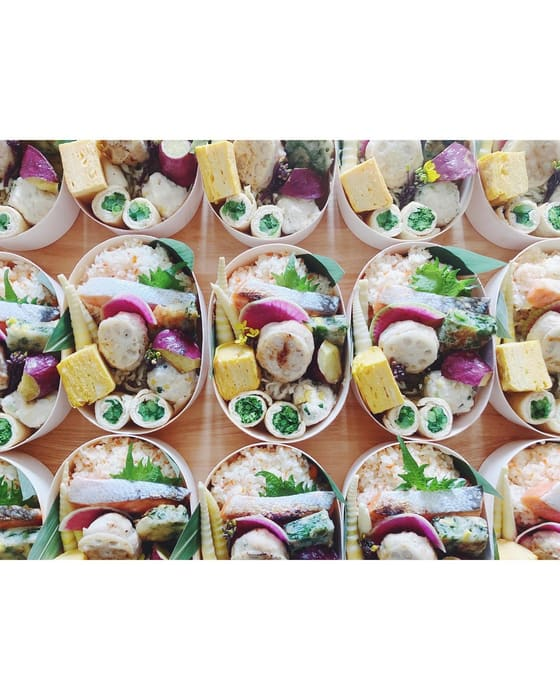
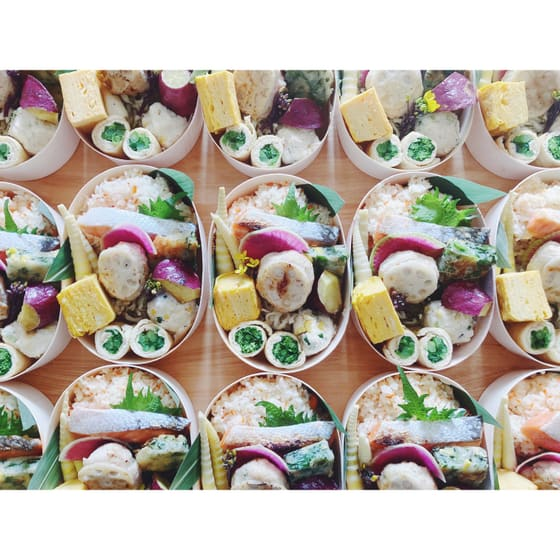
feat: 紹介文9件と店舗画像3枚を追加（紹介文35件・画像34枚）
紹介文・展開商品を追加:
9 あ / 16 かっちゃんさっちゃん / 18 Tomori / 26 ゥさん食堂 /
27 86coffee / 29 neaz eyewear / 30 うさぎ村 / 31 ippo / 32 RuFL

店舗画像を追加: 9 / 16 / 26

店舗ご本人の表記に合わせて店名を変更:
- 「あ 〜折染ワークショップ〜」→「あ」
- 「かっちゃん さっちゃん」→「かっちゃんさっちゃん」
- 「一般社団法人 RuFL」→「RuFL」

16 かっちゃんさっちゃん に Instagram を追加（これまで未登録）。

残りは 20 ヒマラヤ（紹介文・画像・Instagram すべて）と
28 おやこ似顔絵（画像）のみ。

Claude-Session: https://claude.ai/code/session_01UjFhsqrywCfpy14FVUrrUw

diff --git a/events/asobo/visit/index.html b/events/asobo/visit/index.html
@@ -1503,8 +1503,14 @@ const SHOPS = [
   },
   {
     no: 9, pins: [{ n: 9, x: 32.93, y: 49.39 }],
-    name: "あ 〜折染ワークショップ〜", cat: "ワークショップ",
-    insta: ["someworks.a"], img: "shops/09.jpg"
+    name: "あ", kana: "あ", cat: "ワークショップ",
+    insta: ["someworks.a"], img: "shops/09.jpg",
+    desc: "染め紙を体験するワークショップです。\n紙をじゃばらに折り、色水を思うままに浸ける。簡単な作業なので、小さなお子様から大人まで、夢中になって楽しめます。\n染め紙には正解も失敗もなし！ 偶然生まれるキレイ✨や、予測できない変化✨を感じて、豊かな感性が育ちます🌳\n色とりどりのワクワクを体験しにいらしてください🌈",
+    items: [
+      { name: "染め紙竹うちわ作り（竹うちわ1柄につき染め紙2枚）", price: "¥1,000" },
+      { name: "折染め体験（1枚）", price: "¥200" }
+    ],
+    note: "＊染め紙竹うちわ作りは、2枚目以降 800円／1柄"
   },
   {
     no: 10, pins: [{ n: 10, x: 28.47, y: 54.4 }],
@@ -1574,8 +1580,14 @@ const SHOPS = [
   },
   {
     no: 16, pins: [{ n: 16, x: 46.92, y: 52.7 }],
-    name: "かっちゃん さっちゃん", cat: "物販",
-    insta: [], img: "shops/16.jpg"
+    name: "かっちゃんさっちゃん", kana: "かっちゃんさっちゃん", cat: "物販",
+    insta: ["kazikisan0987654321"], img: "shops/16.jpg",
+    desc: "大人も子供も大好き、肉汁たっぷりソーセージ！！\n大人向けなカフェオレや、子供大好きコーンスープを提供しています！\nASOBO!!で沢山わくわくを発見した後は、かっちゃんさっちゃんに食べに来てください！ まってます💫",
+    items: [
+      { name: "ソーセージ", price: "¥500" },
+      { name: "カフェオレ", price: "¥300" },
+      { name: "コーンスープ", price: "¥400" }
+    ]
   },
   {
     no: 17, pins: [{ n: 17, x: 42.58, y: 57.72 }],
@@ -1590,8 +1602,15 @@ const SHOPS = [
   },
   {
     no: 18, pins: [{ n: 18, x: 46.94, y: 57.7 }],
-    name: "Tomori", cat: "物販",
-    insta: ["tomori_curry"], img: "shops/18.jpg"
+    name: "Tomori", kana: "ともり", cat: "物販",
+    insta: ["tomori_curry"], img: "shops/18.jpg",
+    desc: "旬の野菜にこだわって作る創作スパイスカレー。\nオーガニック野菜を使用し、グルテンフリーのカレーを提供します。\n辛味はあとがけで調整できるスタイル。辛いものが苦手な方でも安心してお召し上がりいただけます。",
+    items: [
+      { name: "あいがけプレート（かぼちゃのキーマカレー＋豆カレー＋副菜3種付き）", price: "¥1,100" },
+      { name: "たまごのアチャール", price: "¥100" },
+      { name: "お子さまカレー", price: "¥500" },
+      { name: "ジンジャーエール", price: "¥400" }
+    ]
   },
   {
     no: 19, pins: [{ n: 19, x: 39.52, y: 65.03 }],
@@ -1666,13 +1685,32 @@ const SHOPS = [
   },
   {
     no: 26, pins: [{ n: 26, x: 61.59, y: 41.67 }],
-    name: "ゥさん食堂", cat: "物販",
-    insta: ["usansyokudo"], img: "shops/26.jpg"
+    name: "ゥさん食堂", kana: "うーさんしょくどう", cat: "物販",
+    insta: ["usansyokudo"], img: "shops/26.jpg",
+    desc: "西三河を中心に活動しているゥさん食堂です。\n季節や旬のお野菜を中心にたっぷり使ったお弁当を作っています。7〜8種のお惣菜を少しずつ、彩りや味わいを変えながら五感で楽しめるお弁当をお届けいたします。\nなかなか岐阜方面に出店することがないので、ぜひこの機会に手に取っていただけると嬉しいです！",
+    items: [
+      { name: "季節のお惣菜弁当", price: "¥1,300" }
+    ]
   },
   {
     no: 27, pins: [{ n: 27, x: 63.23, y: 54.47 }],
     name: "86coffee", cat: "キッチンカー",
-    insta: ["86coffee__"], img: "shops/27.jpg"
+    insta: ["86coffee__"], img: "shops/27.jpg",
+    desc: "「日常に溶け込むように、美味しいコーヒーを」をコンセプトに日々運営しております。\n私の好きな「深煎り」のコーヒーを淹れるとき、お湯の温度が86℃がちょうどいいのと、そのような細部までこだわりをもつという意味を屋号に込めています。\nドーナツは国産小麦100%使用。油っこくなく、素材にこだわった、どの年代でも食べやすい素朴な味です。",
+    items: [
+      { name: "コーヒー", price: "¥600" },
+      { name: "カフェラテ", price: "¥650" },
+      { name: "ショコララテ", price: "¥700" },
+      { name: "キャラメルラテ", price: "¥700" },
+      { name: "はちみつラテ", price: "¥700" },
+      { name: "コーヒーフロート", price: "¥700" },
+      { name: "ウインナーコーヒー", price: "¥700" },
+      { name: "チョコミルク", price: "¥500" },
+      { name: "キャラメルミルク", price: "¥500" },
+      { name: "クリームソーダ", price: "¥600" },
+      { name: "ジュース", price: "¥400" },
+      { name: "国産小麦のドーナツ", price: "¥330" }
+    ]
   },
   {
     no: 28, pins: [{ n: 28, x: 66.98, y: 51.89 }],
@@ -1686,23 +1724,50 @@ const SHOPS = [
   },
   {
     no: 29, pins: [{ n: 29, x: 70.96, y: 49.56 }],
-    name: "neaz eyewear（メガネ工房AZ）", cat: "物販",
-    insta: ["meganekoubouaz"], img: "shops/29.jpg"
+    name: "neaz eyewear（メガネ工房AZ）", kana: "にーずあいうぇあ（めがねこうぼうえーぜっと）", cat: "物販",
+    insta: ["meganekoubouaz"], img: "shops/29.jpg",
+    desc: "愛知県刈谷市で父の代から25年、町の眼鏡屋として営んできました。\n眼鏡の価値観ってどうなんでしょう？ 当店は価値を高めたいのではなく、必要な方の元へ行く。\n「needs（ニーズ）」が溢れてる色々な場所へ。「near（近く）」待ってるだけの入りにくさを感じる店ではなく、自ら近くに。メガネ工房AZから派生して、マルシェ専用の屋号として生まれたのが「neaz（ニーズ）eyewear」です。\nお顔の真ん中、1番人格を表す目の周りを彩る唯一のアイテム『眼鏡』を使って、その方だけの眼鏡を提案します！",
+    items: [
+      { name: "眼鏡", price: "¥19,800" },
+      { name: "めがね拭き", price: "¥1,100" },
+      { name: "眼鏡型マグカップ（オリジナル）", price: "¥3,800" }
+    ]
   },
   {
     no: 30, pins: [{ n: 30, x: 63.46, y: 59.63 }],
-    name: "うさぎ村", cat: "物販",
-    insta: ["usagimura2021"], img: "shops/30.jpg"
+    name: "うさぎ村", kana: "うさぎむら", cat: "物販",
+    insta: ["usagimura2021"], img: "shops/30.jpg",
+    desc: "うさぎやパンダなどのあみぐるみのストラップが中心です。\nお気に入りの「かわいい」を見つけて、一緒におでかけしませんか？",
+    items: [
+      { name: "イチゴとうさぎのストラップ", price: "¥500" },
+      { name: "ヘアゴム", price: "¥550" },
+      { name: "お洋服のうさぎ", price: "¥600" },
+      { name: "うさぎの親子のキーホルダー", price: "¥700" }
+    ]
   },
   {
     no: 31, pins: [{ n: 31, x: 67.51, y: 57.3 }],
-    name: "ippo", cat: "ワークショップ",
-    insta: ["ippo_official_balloon"], img: "shops/31.jpg"
+    name: "ippo", kana: "いっぽ", cat: "ワークショップ",
+    insta: ["ippo_official_balloon"], img: "shops/31.jpg",
+    desc: "ギフトバルーンは、クリアバルーンに花びらやコンフェッティを入れて、お好きな装飾を選んで作るバルーンです。インテリアやプレゼントに、透明かわいいバルーンはいかがですか。\nまた、ふわふわぷにぷにスクイーズにパーツを使ってデコレーションができる、スクイーズデコレーションの体験もできます。\n是非、カワイイオリジナルギフトバルーン・スクイーズの体験、作品を見に来てください。",
+    items: [
+      { name: "ギフトバルーン", price: "¥650〜1,350" },
+      { name: "ドーナツ・カップケーキ スクイーズデコレーション", price: "¥1,000〜" },
+      { name: "ドリンクスクイーズキーホルダー デコレーション", price: "¥1,000〜" },
+      { name: "キャンディバッグ", price: "¥100＋パーツ代〜" }
+    ],
+    note: "キャンディバッグはお好みでパーツを入れます（別料金）。スクイーズデコレーションにもパーツ（別料金）を追加できます。"
   },
   {
     no: 32, pins: [{ n: 32, x: 71.38, y: 55.03 }],
-    name: "一般社団法人 RuFL", cat: "物販",
-    insta: ["rufl_japan"], img: "shops/32.jpg"
+    name: "RuFL", kana: "らっふる", cat: "物販",
+    insta: ["rufl_japan"], img: "shops/32.jpg",
+    desc: "「ラグビーを通して、つながる人々の人生を共に豊かに」をモットーに、ラグビーの普及活動を行っています🏉✨\n物販ブースでは、繰り返し3年間使える靴の脱臭・吸湿剤やRuFLグッズを販売！\nさらに、好きな色の端材パーツを選んで作る「世界にひとつだけのオリジナルラグビーボール作り」も🌈\n皆さまと交流し、ラグビーを通して笑顔あふれる1日を一緒につくれたら嬉しいです！ ぜひ遊びに来てください😊🏉",
+    items: [
+      { name: "カラッとヒーロー", price: "¥3,000" },
+      { name: "アップサイクルラグビーボール", price: "¥2,000" },
+      { name: "オリジナルアップサイクルネームタグ", price: "¥500〜1,000" }
+    ]
   },
   {
     no: 33, pins: [{ n: 33, x: 75.27, y: 52.72 }],
